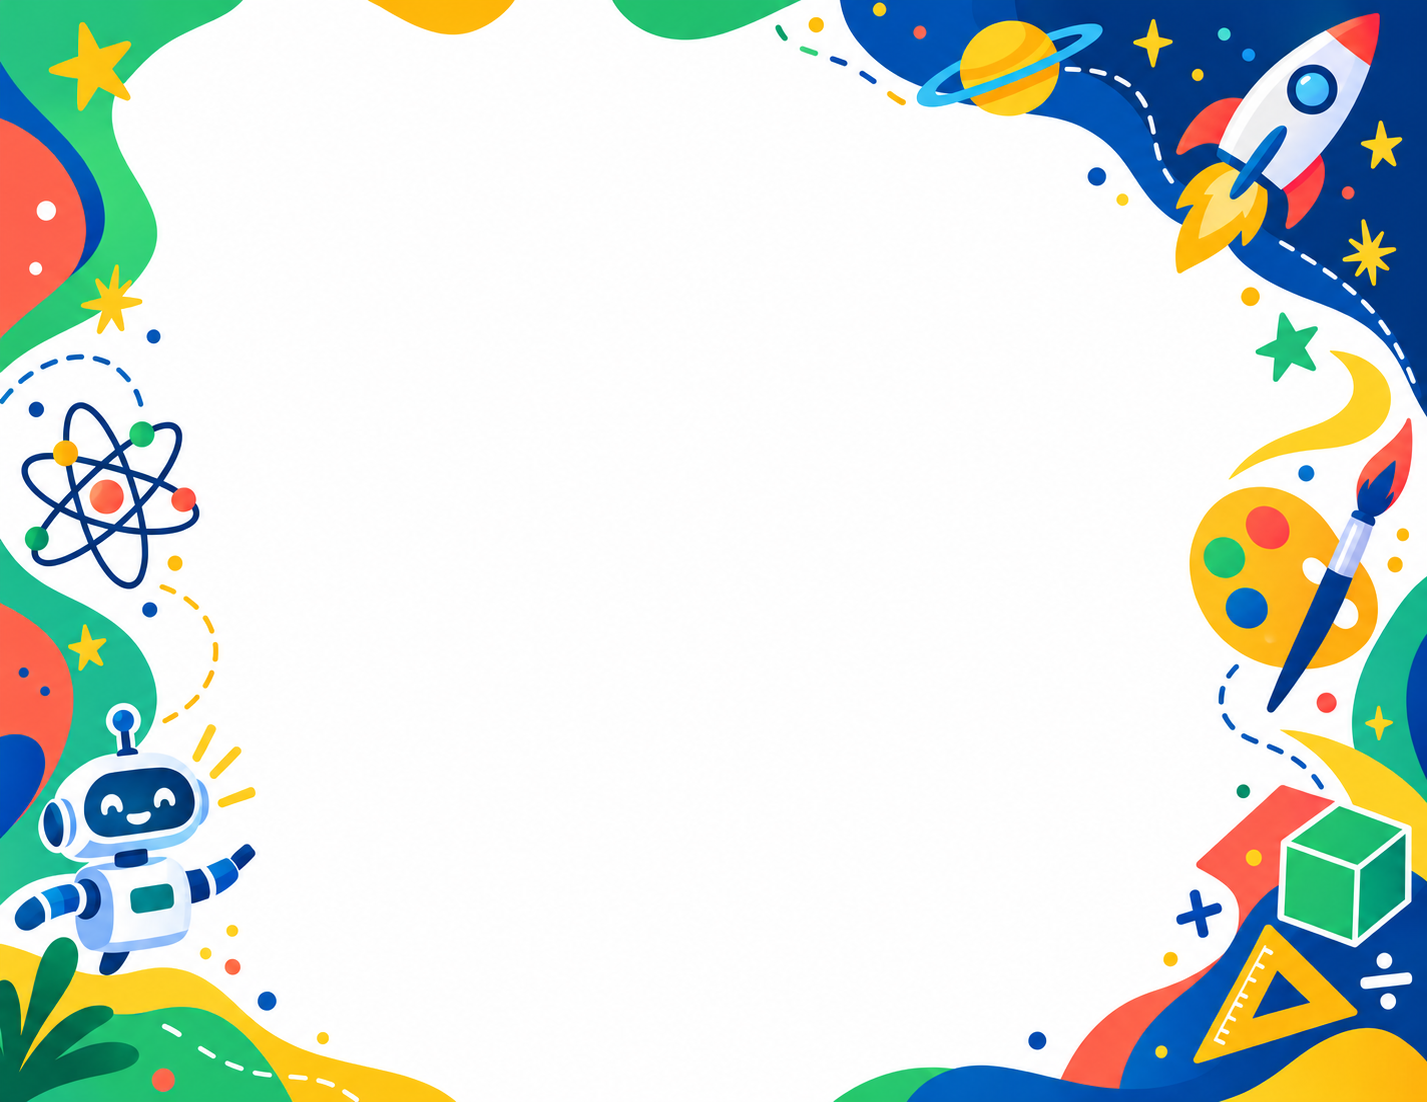
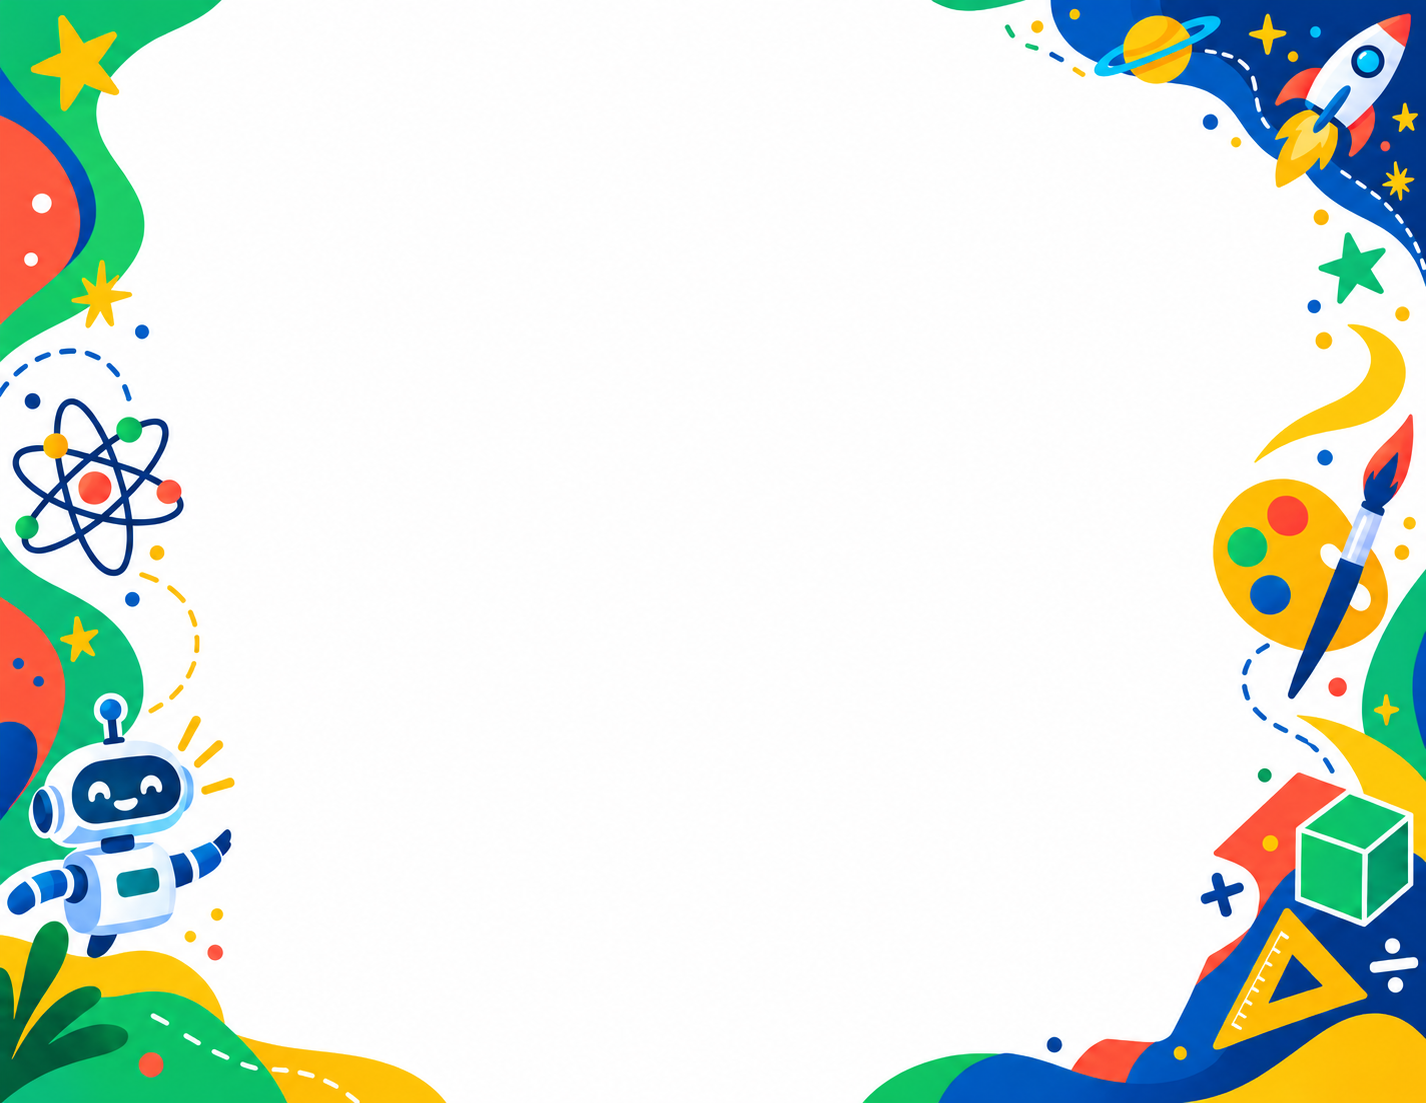
Amplía encabezado blanco, centra nombre institucional y redistribuye certificado

diff --git a/src/documentosParticipantes.js b/src/documentosParticipantes.js
@@ -56,34 +56,34 @@ export function construirCertificados(jsPDF,certificados,recursos={}, {borrador=
   if(!recursos.fondoCertificado)throw new Error('No se pudo cargar el diseño del certificado. Actualiza la app e inténtalo otra vez.');
   pdf.addImage(recursos.fondoCertificado,'PNG',0,0,279.4,215.9);
   // Fondo ilustrado aprobado; escudo, textos y firmas se añaden como datos independientes.
-  pdf.addImage(escudoOriginal,'PNG',44,14,17,22.1);
-  pdf.setTextColor(tinta);pdf.setFont(fuente,'bold');pdf.setFontSize(9.5);pdf.text('CENTRO EDUCATIVO RURAL CLAUDINA MÚNERA',66,21);
-  pdf.setFont(fuente,'normal');pdf.setFontSize(6.5);pdf.text('VEREDA LA CORRALA · CALDAS, ANTIOQUIA',66,27);
-  const resolucion=ajustar(pdf,'Aprobado por Resolución Departamental N° S201500094400 de Marzo 12 de 2015',166,7,{size:6.5,min:5.5,bold:false,fuente,color:tinta});pdf.text(resolucion.lineas,66,33,{lineHeightFactor:1.15});
-  pdf.setFillColor(azul);pdf.roundedRect(99.7,42,80,10,5,5,'F');pdf.setFont(fuente,'bold');pdf.setFontSize(12);pdf.setTextColor('#ffffff');pdf.text('FERIA STEAM 2026',139.7,48.8,{align:'center'});
-  pdf.setTextColor(azul);pdf.setFontSize(34);pdf.text('CERTIFICADO',139.7,67,{align:'center'});
-  pdf.setTextColor(tinta);pdf.setFont(fuente,'bold');pdf.setFontSize(10);pdf.text('D E  P A R T I C I P A C I Ó N',139.7,76,{align:'center'});
-  pdf.setDrawColor('#ffc31a');pdf.setLineWidth(1);pdf.line(103,87,176.4,87);
-  pdf.setFont(fuente,'bold');pdf.setFontSize(11);pdf.text('¡Tus ideas pueden cambiar el mundo!',139.7,84,{align:'center'});
-  const nombre=ajustar(pdf,p.nombre,184,19,{size:25,min:10,fuente,color:tinta});pdf.text(nombre.lineas,139.7,97,{align:'center',lineHeightFactor:1.15});
-  const institucion=ajustar(pdf,p.institucion||'',184,8,{size:9,min:6,bold:false,fuente,color:tinta});pdf.text(institucion.lineas,139.7,115,{align:'center',lineHeightFactor:1.15});
+  pdf.addImage(escudoOriginal,'PNG',37,21,18,23.4);
+  pdf.setTextColor(tinta);pdf.setFont(fuente,'bold');pdf.setFontSize(13);pdf.text('CENTRO EDUCATIVO RURAL CLAUDINA MÚNERA',139.7,30,{align:'center'});
+  pdf.setFont(fuente,'normal');pdf.setFontSize(8);pdf.text('VEREDA LA CORRALA · CALDAS, ANTIOQUIA',139.7,38,{align:'center'});
+  const resolucion=ajustar(pdf,'Aprobado por Resolución Departamental N° S201500094400 de Marzo 12 de 2015',184,7,{size:7.5,min:6.5,bold:false,fuente,color:tinta});pdf.text(resolucion.lineas,139.7,44,{align:'center',lineHeightFactor:1.15});
+  pdf.setFillColor(azul);pdf.roundedRect(99.7,55,80,10,5,5,'F');pdf.setFont(fuente,'bold');pdf.setFontSize(12);pdf.setTextColor('#ffffff');pdf.text('FERIA STEAM 2026',139.7,61.8,{align:'center'});
+  pdf.setTextColor(azul);pdf.setFontSize(34);pdf.text('CERTIFICADO',139.7,81,{align:'center'});
+  pdf.setTextColor(tinta);pdf.setFont(fuente,'bold');pdf.setFontSize(10);pdf.text('D E  P A R T I C I P A C I Ó N',139.7,90,{align:'center'});
+  pdf.setDrawColor('#ffc31a');pdf.setLineWidth(1);pdf.line(103,101,176.4,101);
+  pdf.setFont(fuente,'bold');pdf.setFontSize(11);pdf.text('¡Tus ideas pueden cambiar el mundo!',139.7,98,{align:'center'});
+  const nombre=ajustar(pdf,p.nombre,184,16,{size:25,min:10,fuente,color:tinta});pdf.text(nombre.lineas,139.7,112,{align:'center',lineHeightFactor:1.15});
+  const institucion=ajustar(pdf,p.institucion||'',184,6,{size:9,min:6,bold:false,fuente,color:tinta});pdf.text(institucion.lineas,139.7,128,{align:'center',lineHeightFactor:1.15});
   const firmantes=Array.isArray(p.firmantes)&&p.firmantes.length>=1&&p.firmantes.length<=6?p.firmantes:firmantesPredeterminados.map((f,n)=>({...f,firma:n===1?recursos.firmaTransparente:null}));
   const dosFilas=firmantes.length>3;
-  const cuerpo=ajustar(pdf,textoCertificado(p),184,dosFilas?17:24,{size:dosFilas?10:11,min:6,bold:false,fuente,color:tinta});pdf.text(cuerpo.lineas,139.7,126,{align:'center',lineHeightFactor:1.15});
-  pdf.setFont(fuente,'normal');pdf.setFontSize(7);pdf.setTextColor(tinta);pdf.text(borrador?'Vista previa para revisión. Pendiente de confirmar la participación.':`Se expide en Caldas, Antioquia, el ${fecha(cert.emitido_en)}.`,139.7,dosFilas?145:153,{align:'center'});
-  pdf.setFillColor('#ffffff');pdf.roundedRect(47.7,dosFilas?148:158,184,dosFilas?49:39,3,3,'F');
+  const cuerpo=ajustar(pdf,textoCertificado(p),184,dosFilas?12:17,{size:dosFilas?10:11,min:6,bold:false,fuente,color:tinta});pdf.text(cuerpo.lineas,139.7,138,{align:'center',lineHeightFactor:1.15});
+  pdf.setFont(fuente,'normal');pdf.setFontSize(7);pdf.setTextColor(tinta);pdf.text(borrador?'Vista previa para revisión. Pendiente de confirmar la participación.':`Se expide en Caldas, Antioquia, el ${fecha(cert.emitido_en)}.`,139.7,dosFilas?153:161,{align:'center'});
+  pdf.setFillColor('#ffffff');pdf.roundedRect(47.7,dosFilas?155:166,184,dosFilas?47:36,3,3,'F');
   firmantes.forEach((f,n)=>{
    const fila=Math.floor(n/3),cantidadFila=Math.min(3,firmantes.length-fila*3),anchoCelda=184/cantidadFila,ancho=Math.min(84,anchoCelda-7);
-   const centro=47.7+anchoCelda*(n%3+.5),linea=dosFilas?161+fila*25:179,altoFirma=dosFilas?10:16;
+   const centro=47.7+anchoCelda*(n%3+.5),linea=dosFilas?167+fila*23:184,altoFirma=dosFilas?10:16;
    if(f.firma){const info=pdf.getImageProperties(f.firma),ratio=info.width/info.height,w=Math.min(ancho-8,50,altoFirma*ratio),h=w/ratio;pdf.addImage(f.firma,'PNG',centro-w/2,linea-2-h,w,h);}
    pdf.setDrawColor(c.color);pdf.setLineWidth(.25);pdf.line(centro-ancho/2,linea,centro+ancho/2,linea);
    const nombreFirma=ajustar(pdf,f.nombre,ancho,dosFilas?5:7,{size:cantidadFila===3?7.5:9,min:4.5,fuente,color:tinta});pdf.text(nombreFirma.lineas,centro,linea+4,{align:'center',lineHeightFactor:1.15});
    const cargo=ajustar(pdf,f.cargo,ancho,dosFilas?5:7,{size:7,min:4.5,bold:false,fuente,color:tinta});pdf.text(cargo.lineas,centro,linea+(dosFilas?9:11),{align:'center',lineHeightFactor:1.15});
   });
-  pdf.setFillColor('#ffffff');pdf.roundedRect(47.7,197.2,184,5,1,1,'F');
-  pdf.setFont(fuente,'normal');pdf.setFontSize(5.3);pdf.setTextColor(tinta);pdf.text(borrador?'VISTA PREVIA · SIN EMITIR':codigoCertificado(cert),47.7,200);
-  pdf.text('CIENCIA · TECNOLOGÍA · INGENIERÍA · ARTE · MATEMÁTICAS',231.7,200,{align:'right'});
-  if(borrador){pdf.setTextColor('#aa4555');pdf.setFont(fuente,'bold');pdf.setFontSize(9);pdf.text('BORRADOR',231,40,{align:'right'});}
+  pdf.setFillColor('#ffffff');pdf.roundedRect(47.7,203,184,5,1,1,'F');
+  pdf.setFont(fuente,'normal');pdf.setFontSize(5.3);pdf.setTextColor(tinta);pdf.text(borrador?'VISTA PREVIA · SIN EMITIR':codigoCertificado(cert),47.7,206);
+  pdf.text('CIENCIA · TECNOLOGÍA · INGENIERÍA · ARTE · MATEMÁTICAS',231.7,206,{align:'right'});
+  if(borrador){pdf.setTextColor('#aa4555');pdf.setFont(fuente,'bold');pdf.setFontSize(9);pdf.text('BORRADOR',229,50,{align:'right'});}
  });pdf.setProperties({title:'Certificados - Feria STEAM 2026',author:'C.E.R. Claudina Múnera'});return pdf;
 }
 
